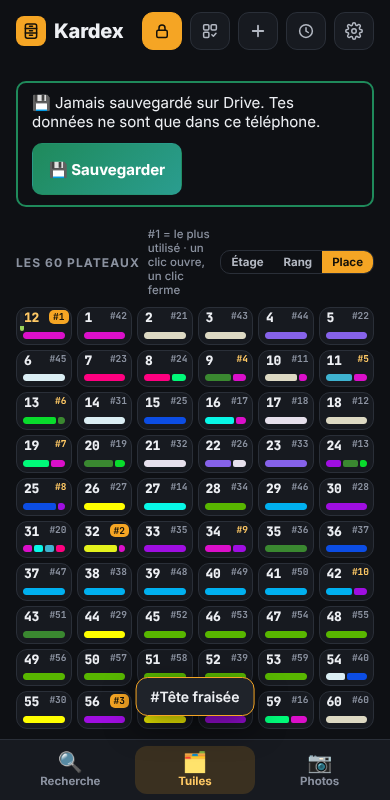
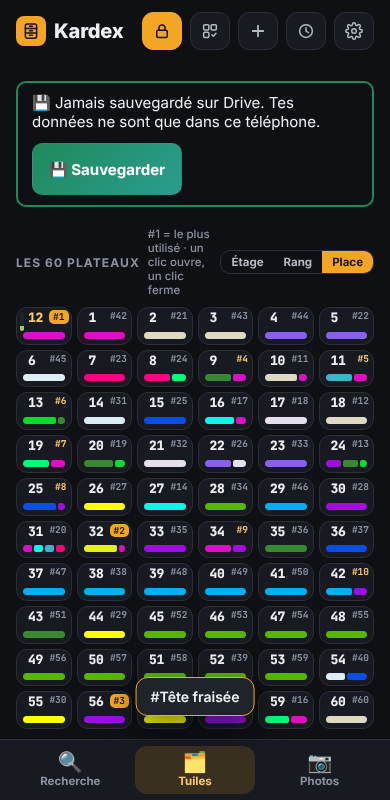
Kardex v1.5 : légende des couleurs dans l'ordre des thèmes
Claude-Session: https://claude.ai/code/session_011bhy27i19H9cwXxkZPYtg4

diff --git a/kardex/index.html b/kardex/index.html
@@ -957,7 +957,7 @@ function renderKx(){
   $("kx").innerHTML=h;
   fpModal();
   $("kxHint").textContent=lots?"un clic = tout le plateau dans le lot":"#1 = le plus utilisé · un clic ouvre, un clic ferme";
-  const usedCats=[...new Set(all().map(a=>a.c))];
+  const usedCats=[...new Set(all().map(a=>a.c))].sort((x,y)=>CAT_ORD.indexOf(x)-CAT_ORD.indexOf(y));
   $("legend").innerHTML=usedCats.map(c=>`<span style="--c:${cat[c].color}"><i></i>${esc(cat[c].name)}</span>`).join("");
 }
 
